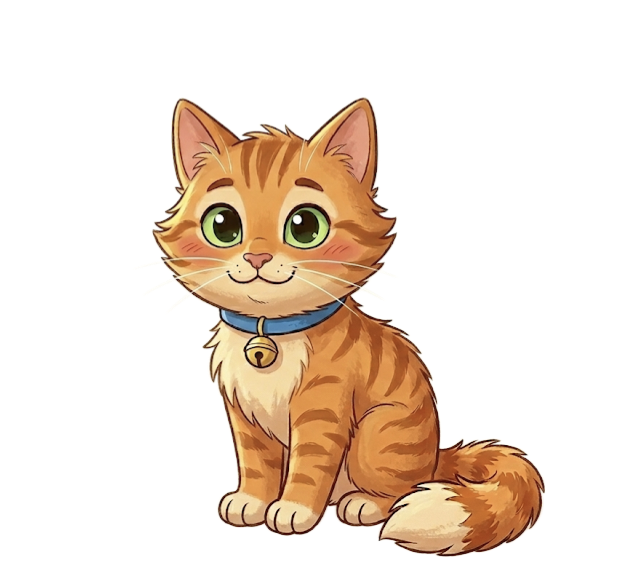
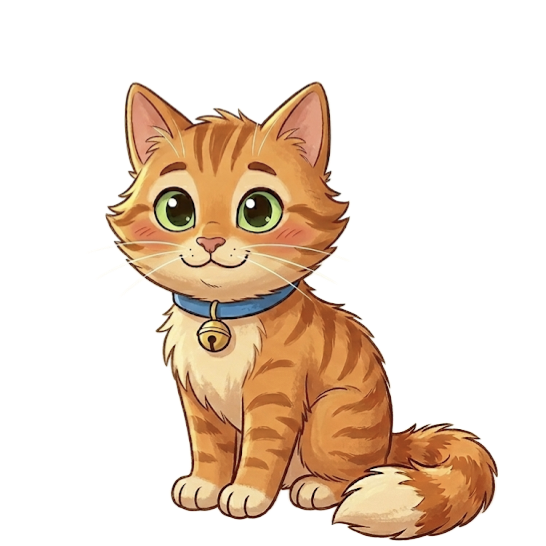
minor edit:

Changed region(s): [[0.1868, 0.1245, 0.9341, 0.9963]]

diff --git a/children_pilot1_psych_verb_exp1/jspsych/psych_verb_exp1_chs.js b/children_pilot1_psych_verb_exp1/jspsych/psych_verb_exp1_chs.js
@@ -49,6 +49,12 @@ _style.textContent = `
         cursor: pointer !important;
         outline: none !important;
         transition: border-color 0.15s, transform 0.1s !important;
+        /* Fixed uniform size so all buttons are the same box */
+        width: 22vh !important;
+        height: 22vh !important;
+        display: inline-flex !important;
+        align-items: center !important;
+        justify-content: center !important;
     }
     .image-choice-btn:hover:not(:disabled) {
         border-color: #4a90d9 !important;
@@ -56,9 +62,10 @@ _style.textContent = `
     }
     .image-choice-btn:disabled { cursor: default !important; }
     .choice-img {
-        height: 20vh;
-        max-width: 35vw;
+        max-width: 100%;
+        max-height: 100%;
         width: auto;
+        height: auto;
         object-fit: contain;
         display: block;
         pointer-events: none;
@@ -368,9 +375,46 @@ function buildScenarioTimeline(scenarioData, scenarioId) {
 //  WARMUP TIMELINE
 // ════════════════════════════════════════════════════════════════════
 
+/**
+ * warmupQuestionTrial – buttons are hidden until the video finishes, then fade in.
+ */
+function warmupQuestionTrial({ videoName, leftImgSrc, rightImgSrc }) {
+    return {
+        type: jsPsychHtmlButtonResponse,
+        stimulus: `<video id="q-audio" src="${VID(videoName)}"
+                         class="trial-video" autoplay playsinline></video>`,
+        choices: [
+            `<img src="${leftImgSrc}"  class="choice-img" alt="distal">`,
+            `<img src="${rightImgSrc}" class="choice-img" alt="proximal">`
+        ],
+        on_load: function () {
+            const group = document.getElementById('jspsych-html-button-response-btngroup');
+            if (group) {
+                group.querySelectorAll('button').forEach(b => {
+                    b.classList.add('image-choice-btn');
+                    b.disabled = true;
+                    b.style.opacity = '0';
+                    b.style.transition = 'opacity 0.3s';
+                });
+                const reveal = () => {
+                    group.querySelectorAll('button').forEach(b => {
+                        b.disabled = false;
+                        b.style.opacity = '1';
+                    });
+                };
+                document.getElementById('q-audio').addEventListener('ended', reveal);
+                setTimeout(reveal, 300_000); // safety fallback
+            }
+        },
+        data: { question_type: 'warmup', scenario: 'warmup', condition: conditionIndex,
+                left_label: 'distal', right_label: 'proximal', video: videoName },
+        response_ends_trial: true
+    };
+}
+
 const warmupTimeline = [
-    questionTrial({ videoName: 'warmup_part1_bird_question', leftImgSrc: IMG('bird.png'), rightImgSrc: IMG('cat.png'),  questionType: 'warmup', scenarioId: 'warmup' }),
-    questionTrial({ videoName: 'warmup_part2_fish_question', leftImgSrc: IMG('pig.png'),  rightImgSrc: IMG('fish.png'), questionType: 'warmup', scenarioId: 'warmup' }),
+    warmupQuestionTrial({ videoName: 'warmup_part1_bird_question', leftImgSrc: IMG('bird.png'), rightImgSrc: IMG('cat.png')  }),
+    warmupQuestionTrial({ videoName: 'warmup_part2_fish_question', leftImgSrc: IMG('pig.png'),  rightImgSrc: IMG('fish.png') }),
     videoTrial('warmup_finish', 'warmup_video')
 ];
 

diff --git a/children_pilot1_psych_verb_exp2/jspsych/psych_verb_exp2_chs.js b/children_pilot1_psych_verb_exp2/jspsych/psych_verb_exp2_chs.js
@@ -49,6 +49,12 @@ _style.textContent = `
         cursor: pointer !important;
         outline: none !important;
         transition: border-color 0.15s, transform 0.1s !important;
+        /* Fixed uniform size so all buttons are the same box */
+        width: 22vh !important;
+        height: 22vh !important;
+        display: inline-flex !important;
+        align-items: center !important;
+        justify-content: center !important;
     }
     .image-choice-btn:hover:not(:disabled) {
         border-color: #4a90d9 !important;
@@ -56,9 +62,10 @@ _style.textContent = `
     }
     .image-choice-btn:disabled { cursor: default !important; }
     .choice-img {
-        height: 20vh;
-        max-width: 35vw;
+        max-width: 100%;
+        max-height: 100%;
         width: auto;
+        height: auto;
         object-fit: contain;
         display: block;
         pointer-events: none;
@@ -333,9 +340,46 @@ function buildScenarioTimeline(scenarioData, scenarioId) {
 //  WARMUP TIMELINE
 // ════════════════════════════════════════════════════════════════════
 
+/**
+ * warmupQuestionTrial – buttons are hidden until the video finishes, then fade in.
+ */
+function warmupQuestionTrial({ videoName, leftImgSrc, rightImgSrc }) {
+    return {
+        type: jsPsychHtmlButtonResponse,
+        stimulus: `<video id="q-audio" src="${VID(videoName)}"
+                         class="trial-video" autoplay playsinline></video>`,
+        choices: [
+            `<img src="${leftImgSrc}"  class="choice-img" alt="distal">`,
+            `<img src="${rightImgSrc}" class="choice-img" alt="proximal">`
+        ],
+        on_load: function () {
+            const group = document.getElementById('jspsych-html-button-response-btngroup');
+            if (group) {
+                group.querySelectorAll('button').forEach(b => {
+                    b.classList.add('image-choice-btn');
+                    b.disabled = true;
+                    b.style.opacity = '0';
+                    b.style.transition = 'opacity 0.3s';
+                });
+                const reveal = () => {
+                    group.querySelectorAll('button').forEach(b => {
+                        b.disabled = false;
+                        b.style.opacity = '1';
+                    });
+                };
+                document.getElementById('q-audio').addEventListener('ended', reveal);
+                setTimeout(reveal, 300_000); // safety fallback
+            }
+        },
+        data: { question_type: 'warmup', scenario: 'warmup', condition: conditionIndex,
+                left_label: 'distal', right_label: 'proximal', video: videoName },
+        response_ends_trial: true
+    };
+}
+
 const warmupTimeline = [
-    questionTrial({ videoName: 'warmup_part1_bird_question', leftImgSrc: IMG('bird.png'), rightImgSrc: IMG('cat.png'),  questionType: 'warmup', scenarioId: 'warmup' }),
-    questionTrial({ videoName: 'warmup_part2_fish_question', leftImgSrc: IMG('pig.png'),  rightImgSrc: IMG('fish.png'), questionType: 'warmup', scenarioId: 'warmup' }),
+    warmupQuestionTrial({ videoName: 'warmup_part1_bird_question', leftImgSrc: IMG('bird.png'), rightImgSrc: IMG('cat.png')  }),
+    warmupQuestionTrial({ videoName: 'warmup_part2_fish_question', leftImgSrc: IMG('pig.png'),  rightImgSrc: IMG('fish.png') }),
     videoTrial('warmup_finish', 'warmup_video')
 ];
 

diff --git a/children_pilot1_psych_verb_exp3/jspsych/psych_verb_exp3_chs.js b/children_pilot1_psych_verb_exp3/jspsych/psych_verb_exp3_chs.js
@@ -48,6 +48,12 @@ _style.textContent = `
         cursor: pointer !important;
         outline: none !important;
         transition: border-color 0.15s, transform 0.1s !important;
+        /* Fixed uniform size so all buttons are the same box */
+        width: 22vh !important;
+        height: 22vh !important;
+        display: inline-flex !important;
+        align-items: center !important;
+        justify-content: center !important;
     }
     .image-choice-btn:hover:not(:disabled) {
         border-color: #4a90d9 !important;
@@ -55,9 +61,10 @@ _style.textContent = `
     }
     .image-choice-btn:disabled { cursor: default !important; }
     .choice-img {
-        height: 20vh;
-        max-width: 35vw;
+        max-width: 100%;
+        max-height: 100%;
         width: auto;
+        height: auto;
         object-fit: contain;
         display: block;
         pointer-events: none;
@@ -267,9 +274,46 @@ function buildScenarioTimeline(scenarioData, scenarioId) {
 //  WARMUP TIMELINE
 // ════════════════════════════════════════════════════════════════════
 
+/**
+ * warmupQuestionTrial – buttons are hidden until the video finishes, then fade in.
+ */
+function warmupQuestionTrial({ videoName, leftImgSrc, rightImgSrc }) {
+    return {
+        type: jsPsychHtmlButtonResponse,
+        stimulus: `<video id="q-audio" src="${VID(videoName)}"
+                         class="trial-video" autoplay playsinline></video>`,
+        choices: [
+            `<img src="${leftImgSrc}"  class="choice-img" alt="distal">`,
+            `<img src="${rightImgSrc}" class="choice-img" alt="proximal">`
+        ],
+        on_load: function () {
+            const group = document.getElementById('jspsych-html-button-response-btngroup');
+            if (group) {
+                group.querySelectorAll('button').forEach(b => {
+                    b.classList.add('image-choice-btn');
+                    b.disabled = true;
+                    b.style.opacity = '0';
+                    b.style.transition = 'opacity 0.3s';
+                });
+                const reveal = () => {
+                    group.querySelectorAll('button').forEach(b => {
+                        b.disabled = false;
+                        b.style.opacity = '1';
+                    });
+                };
+                document.getElementById('q-audio').addEventListener('ended', reveal);
+                setTimeout(reveal, 300_000); // safety fallback
+            }
+        },
+        data: { question_type: 'warmup', scenario: 'warmup', condition: conditionIndex,
+                left_label: 'distal', right_label: 'proximal', video: videoName },
+        response_ends_trial: true
+    };
+}
+
 const warmupTimeline = [
-    questionTrial({ videoName: 'warmup_part1_bird_question', leftImgSrc: IMG('bird.png'), rightImgSrc: IMG('cat.png'),  questionType: 'warmup', scenarioId: 'warmup' }),
-    questionTrial({ videoName: 'warmup_part2_fish_question', leftImgSrc: IMG('pig.png'),  rightImgSrc: IMG('fish.png'), questionType: 'warmup', scenarioId: 'warmup' }),
+    warmupQuestionTrial({ videoName: 'warmup_part1_bird_question', leftImgSrc: IMG('bird.png'), rightImgSrc: IMG('cat.png')  }),
+    warmupQuestionTrial({ videoName: 'warmup_part2_fish_question', leftImgSrc: IMG('pig.png'),  rightImgSrc: IMG('fish.png') }),
     videoTrial('warmup_finish', 'warmup_video')
 ];
 
